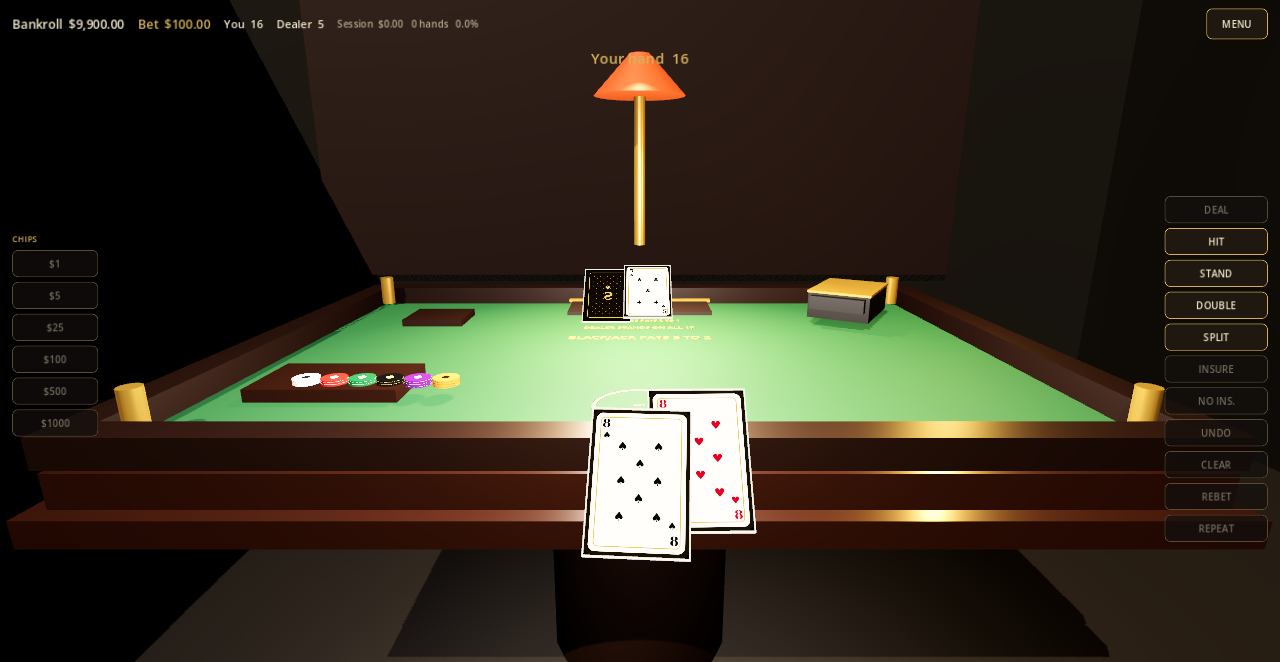
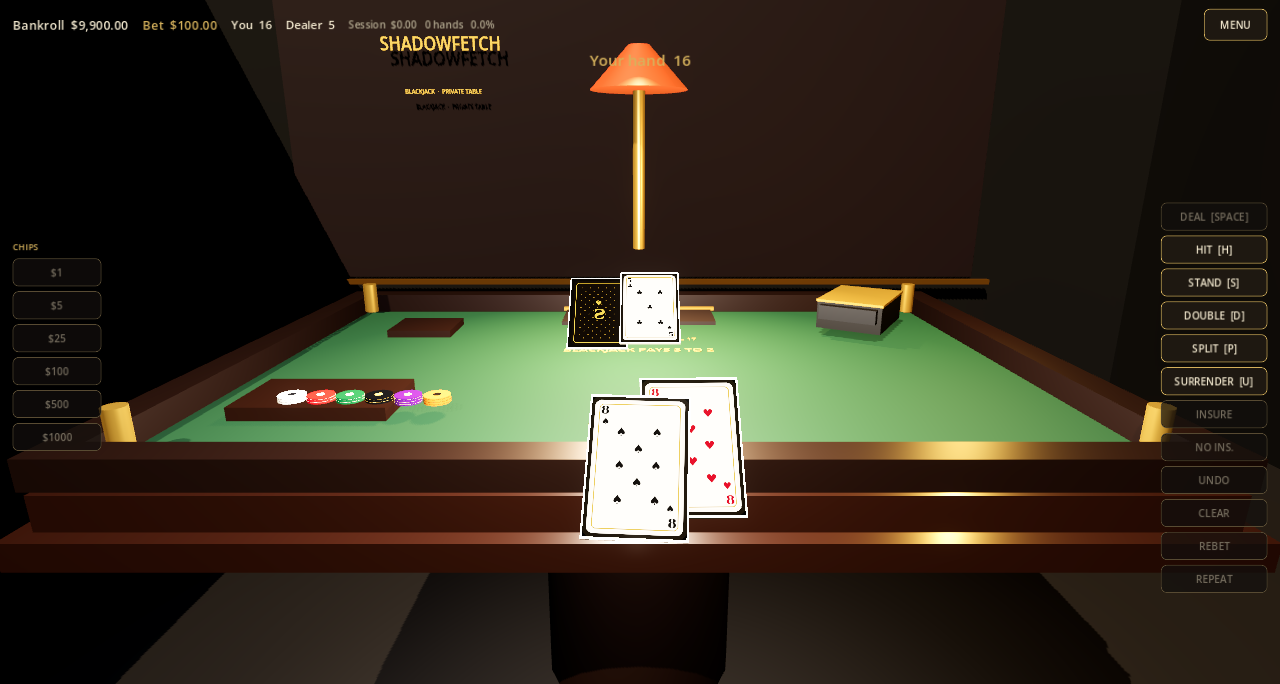
docs: package and document blackjack 2.0 release

diff --git a/README.md b/README.md
@@ -4,22 +4,25 @@ Premium standalone **3D blackjack** for Linux. Native Godot 4 / Vulkan desktop a
 
 You play seated at a cinematic casino table with readable 3D cards, tactile chips, and a rules-correct six-deck shoe. **All chips are fictional.** There is no cash-out, no deposits, and no real-money gambling.
 
+![Shadowfetch Blackjack main menu](docs/screenshots/main-menu.png)
+
 ![Dealt player and dealer cards](docs/screenshots/deal.png)
 
 ![Split hands facing the player](docs/screenshots/split.png)
 
-**Version:** 1.0.0  
+**Version:** 2.0.0
 **App name:** Shadowfetch Blackjack
 
 ## Features
 
-- Seated first-person camera over a PBR felt table with markings, shoe, tray, and dealer station
-- Full 52-card faces plus backs, dealt with flip / slide / split / reveal / clear
+- Rebuilt black/gold/deep-green private-table environment with branded wall, refined lighting, restrained bloom, shoe, tray, discard, and dealer station
+- Enlarged full-deck card faces with physical edges, backs, deal / flip / split / reveal / clear motion, and seated-camera readability
 - Chips: $1 / $5 / $25 / $100 / $500 / $1000, stack, undo, clear, rebet, repeat
 - $10,000 starting fictional bankroll, persisted stats, reset option
 - Six-deck shoe, real shuffle, cut card, reshuffle
-- Dealer stands on **all 17s** (including soft 17)
+- Dealer stands on **all 17s** by default; optional H17 table rule
 - Blackjack pays **3:2**, insurance **2:1**, DAS, split to four hands, conventional split aces
+- Optional late surrender with exact half-wager integer settlement
 - Context-sensitive HUD and keyboard shortcuts
 - Master / Music / FX / Ambient volumes, mute, graphics quality, resolution, fullscreen, vsync, AA, shadows, animation speed
 - Beginner tutorial and How To Play
@@ -34,6 +37,7 @@ You play seated at a cinematic casino table with readable 3D cards, tactile chip
 | S | Stand |
 | D | Double |
 | P | Split |
+| U | Surrender |
 | R | Repeat last bet and deal |
 | Esc | Pause / menu |
 
@@ -43,6 +47,7 @@ Chip buttons (and the 3D tray) add to the wager. Invalid shortcuts are ignored.
 
 - Six decks, shuffled; a cut card triggers a reshuffle after the current hand
 - Dealer stands on hard and soft 17
+- Optional H17 and late surrender are configurable in Settings → Table Rules and apply on the next deal
 - Natural blackjack pays 3:2; both sides blackjack is a push
 - Split matching **ranks** only, maximum four hands
 - Double after split allowed; split aces receive one card each and cannot be hit, doubled, or resplit
@@ -67,12 +72,18 @@ Launch **Shadowfetch Blackjack** from your app menu, or run `shadowfetch-blackja
 
 No configuration is required on first launch.
 
+To remove application files while preserving settings and statistics:
+
+```bash
+./tools/uninstall-user.sh
+```
+
 ## Source, build, test
 
 Requirements: [Godot 4.7](https://godotengine.org/) (this project targets 4.7.2), Linux x86_64, Vulkan.
 
 ```bash
-# Engine unit tests + 100k+ simulated hands
+# Engine tests + 200k simulated hands
 ./tools/run_tests.sh
 
 # Editor / play
@@ -80,13 +91,16 @@ godot --path .
 
 # Release export
 ./tools/export_linux.sh
+
+# Versioned tarball + SHA-256 checksum
+./tools/package_release.sh
 ```
 
 `SHADOWFETCH_BJ_HOME` redirects settings/stats for tests so developer runs do not touch your real save files.
 
 ## Architecture
 
-The rules engine is independent of the 3D table. See `docs/` for engine, shoe, betting, presentation, save format, and tests.
+The rules engine is independent of the 3D table. See `docs/` for engine, shoe, betting, presentation, save format, asset provenance, and tests.
 
 ```
 scripts/engine/     shoe, hands, payouts, legal actions
@@ -99,7 +113,7 @@ tests/              headless Godot suite + large simulation
 
 ## License
 
-MIT. Original procedural art and audio. No third-party casino IP.
+MIT. Card faces, card back, table geometry, icon, UI, and generated PCM audio are original project assets. No third-party casino IP or externally licensed media is shipped.
 
 ## Disclaimer
 

diff --git a/docs/ENGINE.md b/docs/ENGINE.md
@@ -8,8 +8,8 @@
 
 - **BETTING** — chips, undo, clear, rebet, repeat, deal
 - **INSURANCE** — only if the dealer upcard is an Ace
-- **PLAYER** — hit / stand / double / split on the active hand
-- **DEALER** — draws while the best total is below 17
+- **PLAYER** — hit / stand / double / split / optional late surrender on the active hand
+- **DEALER** — draws below 17; S17 is default and H17 is configurable
 - **SETTLE** — integer-cent payouts applied; `finish_round()` discards and returns to betting
 
 ## Public API
@@ -18,7 +18,7 @@ Every mutating call returns `{ ok, action, reason?, phase }`. Illegal actions ar
 
 - `add_chip`, `undo_chip`, `clear_bet`, `rebet`, `repeat_and_deal`, `deal`
 - `take_insurance(accept)`
-- `hit`, `stand`, `double_down`, `split`
+- `hit`, `stand`, `double_down`, `split`, `surrender`
 - `legal_actions()`, `can(action)`
 - `snapshot()` for debugging
 
@@ -28,13 +28,14 @@ Every mutating call returns `{ ok, action, reason?, phase }`. Illegal actions ar
 
 ## Dealer
 
-`dealer_should_hit()` is `best_total() < 17`. Soft 17 stands. If every player hand is bust, the dealer does not draw.
+`dealer_should_hit()` is `best_total() < 17` under the default S17 rule. With H17 enabled it also hits a soft 17. If every player hand is bust or surrendered, the dealer does not draw.
 
 ## Payouts (cents)
 
 | Result | Bankroll credit |
 | --- | --- |
 | Lose / bust | 0 |
+| Late surrender | half the original bet |
 | Push | original bet |
 | Win | `2 * bet` |
 | Blackjack | `bet + bet * 3 / 2` |

diff --git a/docs/TESTS.md b/docs/TESTS.md
@@ -6,6 +6,6 @@
 
 Headless Godot loads `tests/test_runner.gd` → `TestBlackjackEngine`.
 
-Coverage includes: card values, soft/hard/multi-ace, shoe uniqueness and cut-card reshuffle, deal totals, 3:2 blackjack, two-sided blackjack push, ordinary push, bust (dealer does not draw), double, split, split aces (not blackjack), resplit / max four hands, insurance win and lose, dealer S17, dealer hits 16, bankroll bounds, illegal actions, rapid extra input, integer payouts, clean new rounds, conservation across reshuffles, save/load, corrupt recovery, and **120_000** simulated hands with basic-strategy-plus-noise play.
+Coverage includes: card values, soft/hard/multi-ace, shoe uniqueness and cut-card reshuffle, deal totals, 3:2 blackjack, two-sided blackjack push, ordinary push, bust (dealer does not draw), double, split, split aces (not blackjack), resplit / max four hands, insurance win and lose, default S17, optional H17, late-surrender legality and payout, dealer hits 16, bankroll bounds, illegal actions, rapid extra input, integer payouts, clean new rounds, conservation across reshuffles, save/load, corrupt recovery, and **200,000** simulated hands with basic-strategy-plus-noise play.
 
-Simulation invariants: non-negative bankroll, unique 312-card shoe, payout table match, return to betting after each hand.
+Simulation invariants: non-negative bankroll, unique 312-card shoe, conserved card count, payout table match (including surrender), legal randomized actions only, and return to betting after each hand.

diff --git a/docs/PRESENTATION.md b/docs/PRESENTATION.md
@@ -2,14 +2,16 @@
 
 Everything visual is generated at runtime. No third-party card or table assets.
 
-- `TableBuilder` — felt, rails, brass, shoe, tray, discard, lamp, dealer pad, gold TextMesh markings
+- `TableBuilder` — deep-green felt, layered rails, brass, branded wall, shoe, tray, discard, lamp, dealer pad, gold TextMesh markings
 - `CardTextures` — 52 faces + back as `Image` / PBR quads on a thin box
 - `CardView` — deal from the shoe, Y-up faces, Z flip for hole cards
 - `ChipFactory` — denomination colors, clickable tray `Area3D`
-- `TableView` — seated camera (FOV 56), ACES tonemap, tasteful bloom, sway, BJ push-in
+- `TableView` — seated camera (FOV 53), ACES tonemap, quality-tier restrained bloom, SSAO, sway, BJ push-in
 - `GameHUD` — bankroll, bet, totals, session, context buttons
 - `OverlayUI` — main / pause / settings / stats / how-to / tutorial
 - `AudioManager` — procedural WAV tones on Master / Music / FX / Ambient
 - `ResultVFX` — short GPU particles for BJ / win / bust / push
 
 Animation duration is multiplied by `SettingsStore.anim_scale()`. Input is ignored while `_busy` so rapid keys cannot desync the table.
+
+Card faces use original raster artwork on unshaded anisotropic quads so ranks and suits remain crisp independently of table lighting. Player cards are enlarged and tilted toward the seated camera; the dealer up-card faces the player and only the hole card stays down before settlement.

diff --git a/CHANGELOG.md b/CHANGELOG.md
@@ -1,5 +1,16 @@
 # Changelog
 
+## 2.0.0
+
+- Reframed the table as a deeper green, black, and gold Shadowfetch private-table environment with branded architecture, tighter camera composition, ACES lighting, and restrained quality-tier bloom.
+- Enlarged cards and moved both player and dealer layouts into the seated camera's strongest readable area while retaining a face-down dealer hole card.
+- Added optional late surrender and configurable H17 play; S17 remains the default. Both rules are persisted and lock in on the next deal.
+- Added surrender UI, keyboard control, settlement feedback, statistics accounting, and randomized-simulation coverage.
+- Sequenced action presentation so hit/double/split/dealer cards finish arriving before result reveal and cleanup.
+- Completed settings control synchronization and grouped table rules in the settings screen.
+- Added a reproducible versioned Linux tarball/checksum packager and a user-local uninstall path that preserves saves.
+- Expanded the full suite to 172 assertions and 200,000 complete randomized hands.
+
 ## 1.0.0
 
 - Standalone Linux 3D blackjack with seated first-person camera

diff --git a/docs/STATE.md b/docs/STATE.md
@@ -5,8 +5,8 @@
 1. Player builds `current_bet_cents` with chips (not yet deducted).
 2. `deal()` deducts the bet, draws two cards each, and may enter insurance.
 3. After insurance (or if no Ace), peek for dealer blackjack. Player natural blackjack settles immediately if the dealer does not have one.
-4. Each player hand is played left to right. Twenty-one auto-stands. Bust ends the hand.
-5. If any hand is live, the dealer plays to the S17 rule.
+4. Each player hand is played left to right. Twenty-one auto-stands. Bust ends the hand. Optional late surrender is legal only on the original two-card hand.
+5. If any hand is live, the dealer plays to S17 by default or H17 when configured. Table-rule changes lock in when the next deal begins.
 6. Settlement writes outcomes, updates stats, plays VFX, then `finish_round()` clears the table.
 
 The player stays seated. Esc opens pause; Restart Session restores a $10,000 fictional bankroll without wiping lifetime totals unless the player resets stats.

diff --git a/docs/ASSETS.md b/docs/ASSETS.md
@@ -1,0 +1,12 @@
+# Asset provenance
+
+Shadowfetch Blackjack ships no third-party casino branding, music, sound effects, fonts, models, or texture packs.
+
+- Card faces and card back: original raster artwork stored in `assets/cards/`.
+- Table, furniture, chips, shoe, tray, discard, lighting, and markings: original procedural Godot geometry and materials generated by `scripts/table/`.
+- Interface and effects: original procedural Godot controls and particles.
+- Audio: PCM generated at runtime from original synthesis routines in `scripts/audio/audio_manager.gd`; no sampled recordings are bundled.
+- Application icon: original Shadowfetch Blackjack artwork in `icon.svg`.
+- Documentation screenshots: captured from the actual Linux Vulkan build.
+
+All project code and original assets are distributed under the repository's MIT License.

diff --git a/ARCHITECTURE.md b/ARCHITECTURE.md
@@ -15,6 +15,6 @@ GameController (Node3D)
     AudioManager / ResultVFX / SettingsStore / StatsStore
 ```
 
-The engine can run 100k hands in headless Godot with no scenes. The table never writes bankroll itself; it only calls engine methods and animates the result.
+The engine runs 200k randomized hands in headless Godot with no scenes. The table never writes bankroll itself; it only calls engine methods and animates the result. Persisted table-rule preferences are copied into the engine at the deal boundary so a paused round cannot change rules mid-hand.
 
 See `docs/ENGINE.md`, `docs/SHOE.md`, `docs/BETTING.md`, `docs/STATE.md`, `docs/PRESENTATION.md`, `docs/SAVE.md`, and `docs/TESTS.md`.

diff --git a/docs/SAVE.md b/docs/SAVE.md
@@ -9,6 +9,6 @@ XDG paths (overridable with `SHADOWFETCH_BJ_HOME` for tests):
 
 Corrupt JSON or out-of-range values restore defaults and log a warning. The game does not crash.
 
-Settings include resolution, fullscreen, vsync, quality, AA, shadows, animation speed, four volume sliders, mute, and `seen_tutorial`.
+Settings schema v2 includes resolution, fullscreen, vsync, quality, AA, shadows, animation speed, four volume sliders, mute, `seen_tutorial`, S17/H17, and late surrender. Missing v2 keys migrate to safe defaults.
 
 Stats include bankroll, last/previous bet, lifetime and session P/L, hands, wins, losses, pushes, blackjacks, largest win.
